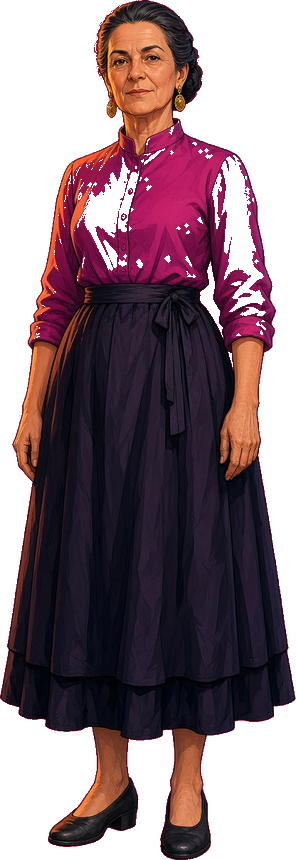
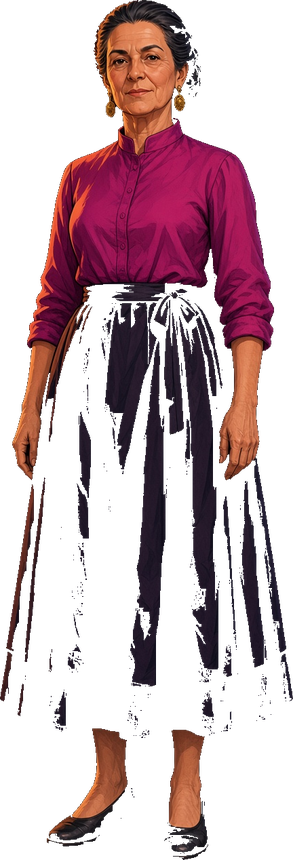
Põe a mulher da casa rosa e a Albertina no mesmo traço dos retratos da rua.

diff --git a/index.html b/index.html
@@ -53,7 +53,7 @@ const CHAPTERS = [
 
 const CAST = {
   ze: { name: "Zé", src: "cast/ze.png" },
-  albertina: { name: "Albertina", src: "cast/albertina.png" },
+  albertina: { name: "Albertina", src: "cast/albertina.png?v=casa" },
   antonio: { name: "António", src: "cast/antonio.png" },
   zeca: { name: "Zeca", src: "cast/zeca.png" },
   zequinha: { name: "Zequinha", src: "cast/zequinha.png" },
@@ -185,8 +185,8 @@ const PEEL = ["cast/peel-1.png"];
 const PEEL_SAY = [
   "Já pagaste. Bebe com os olhos.",
   "Duas peças. Bebe devagar.",
-  "Olha. Ainda há um pano.",
-  "Agora é pele. O Matos que se lixe.",
+  "O pano fica. Bebe devagar.",
+  "O pano fica. Bebe devagar.",
 ];
 const OFFER_SAY = [
   "Ó Zé. Uma coisa fora do livro. Levas?",
@@ -640,6 +640,7 @@ const EN = {
   "Já pagaste. Bebe com os olhos.": "You already paid. Drink with your eyes.",
   "Devagar. A roupa é que tem pressa.": "Slowly. The clothes are the ones in a hurry.",
   "Duas peças. Bebe devagar.": "Two pieces. Drink slowly.",
+  "O pano fica. Bebe devagar.": "The cloth stays. Drink slowly.",
   "Ó Zé. Uma coisa fora do livro. Levas?": "Zé. Something off the book. You taking it?",
   "A Junta anda fria. Isto, quente. Levas?": "The council's cold. This is hot. You taking it?",
   "Para a casa rosa, se tu quiseres. Levas?": "For the pink house, if you want it. You taking it?",
@@ -3630,107 +3631,10 @@ function drawHall() {
 }
 function drawStrip(x, foot, stage) {
   const H = 430;
-  const top = foot - H;
-  if (stage <= 0) {
-    blit(IMG.peel0, x, foot, H);
-    return;
-  }
-  const sway = Math.sin((G.hallT || 0) * 1.6);
-  const hip = sway * 8;
-  const sh = -sway * 3;
-  const y = (t) => top + t;
-  ctx.save();
-  ctx.lineCap = "round";
-  ctx.lineJoin = "round";
-  const limb = (x0, y0, x1, y1, x2, y2, w, col) => {
-    ctx.strokeStyle = col;
-    ctx.lineWidth = w;
-    ctx.beginPath();
-    ctx.moveTo(x0, y0);
-    ctx.quadraticCurveTo(x1, y1, x2, y2);
-    ctx.stroke();
-  };
-  limb(x + hip - 14, y(236), x + hip - 16, y(320), x - 10, y(408), 18, "#a86a48");
-  limb(x + hip + 14, y(236), x + hip + 18, y(320), x + 12, y(408), 18, "#c88862");
-  limb(x + hip - 16, y(214), x + hip - 18, y(250), x + hip - 14, y(250), 24, "#a86a48");
-  limb(x + hip + 16, y(214), x + hip + 20, y(250), x + hip + 14, y(250), 24, "#c88862");
-  ctx.fillStyle = "#c88862";
-  ctx.beginPath();
-  ctx.moveTo(x + sh - 12, y(76));
-  ctx.quadraticCurveTo(x + sh - 46, y(108), x + sh - 34, y(150));
-  ctx.quadraticCurveTo(x + hip - 26, y(188), x + hip - 38, y(228));
-  ctx.lineTo(x + hip + 38, y(228));
-  ctx.quadraticCurveTo(x + hip + 28, y(188), x + sh + 34, y(150));
-  ctx.quadraticCurveTo(x + sh + 48, y(108), x + sh + 14, y(76));
-  ctx.closePath();
-  ctx.fill();
-  ctx.fillStyle = "rgba(90,40,24,0.35)";
-  ctx.beginPath();
-  ctx.moveTo(x + sh - 12, y(76));
-  ctx.quadraticCurveTo(x + sh - 46, y(108), x + sh - 34, y(150));
-  ctx.quadraticCurveTo(x + hip - 26, y(188), x + hip - 10, y(228));
-  ctx.lineTo(x + sh, y(228));
-  ctx.lineTo(x + sh, y(76));
-  ctx.fill();
-  limb(x + sh - 40, y(112), x + sh - 58, y(170), x + hip - 48, y(228), 13, "#a86a48");
-  limb(x + sh + 40, y(112), x + sh + 58, y(170), x + hip + 48, y(228), 13, "#c88862");
-  ctx.fillStyle = "#e0b090";
-  [-1, 1].forEach((s) => {
-    ctx.beginPath();
-    ctx.arc(x + hip + s * 48, y(234), 7, 0, 7);
-    ctx.fill();
-  });
-  if (stage >= 2) {
-    [-1, 1].forEach((s) => {
-      ctx.fillStyle = "#e4b898";
-      ctx.beginPath();
-      ctx.ellipse(x + sh + s * 13, y(132), 12, 11, 0, 0, 7);
-      ctx.fill();
-      ctx.fillStyle = "#8a4038";
-      ctx.beginPath();
-      ctx.arc(x + sh + s * 13, y(134), 2.6, 0, 7);
-      ctx.fill();
-    });
-  }
-  if (stage >= 3) {
-    ctx.fillStyle = "#3a2018";
-    ctx.beginPath();
-    ctx.moveTo(x + hip - 9, y(220));
-    ctx.lineTo(x + hip + 9, y(220));
-    ctx.lineTo(x + hip, y(242));
-    ctx.fill();
-  }
-  if (stage === 1 || stage === 2) {
-    ctx.fillStyle = stage === 1 ? "#6e2430" : "#140e12";
-    ctx.beginPath();
-    ctx.moveTo(x + hip - 32, y(196));
-    ctx.lineTo(x + hip + 32, y(196));
-    ctx.lineTo(x + hip + 20, y(252));
-    ctx.quadraticCurveTo(x + hip, y(228), x + hip - 20, y(252));
-    ctx.closePath();
-    ctx.fill();
-    ctx.fillRect(x + hip - 32, y(188), 64, 10);
-  }
-  if (stage === 1) {
-    ctx.fillStyle = "#6e2430";
-    [-1, 1].forEach((s) => {
-      ctx.beginPath();
-      ctx.ellipse(x + sh + s * 18, y(122), 20, 15, s * 0.15, 0, 7);
-      ctx.fill();
-    });
-    ctx.fillRect(x + sh - 20, y(108), 40, 7);
-    ctx.fillRect(x + sh - 40, y(114), 14, 5);
-    ctx.fillRect(x + sh + 26, y(114), 14, 5);
-  }
-  ctx.fillStyle = "#1a1210";
-  [-1, 1].forEach((s) => ctx.fillRect(x + s * 11 - 9, y(408), 18, 8));
-  ctx.restore();
-  const img = IMG.peelHead;
-  if (img) {
-    const hh = H * (img.height / 1250);
-    blit(img, x + sh * 0.25, top + hh, hh);
-  }
+  const img = IMG.peelViva || IMG.peel0;
+  if (img) blit(img, x, foot, H);
 }
+
 function drawStool() {
   drawHall();
   const paid = G.houseNight === G.night;
@@ -3853,6 +3757,7 @@ function boot() {
   Object.keys(PROP).forEach((id) => files.push([id, PROP[id]]));
   PEEL.forEach((src, i) => files.push(["peel" + i, src]));
   files.push(["peelHead", "cast/peel-head.png"]);
+  files.push(["peelViva", "cast/peel-viva.png?v=casa"]);
   let left = files.length;
   const tick = () => {
     left -= 1;
